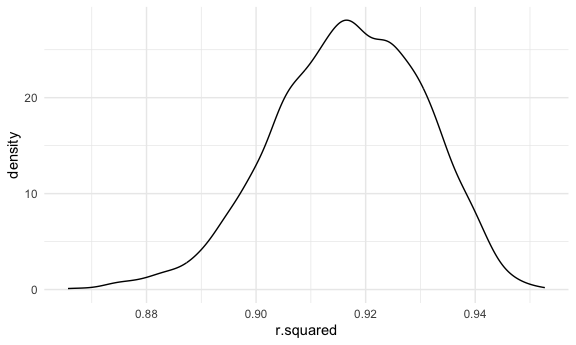
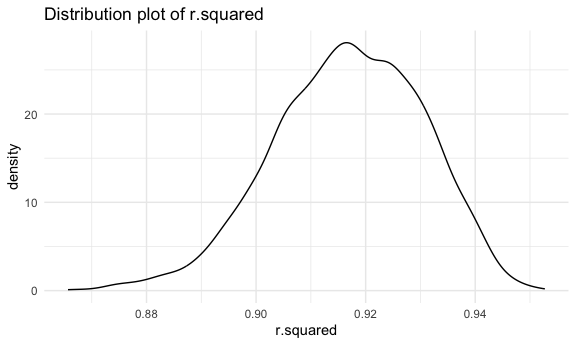
add problem 2 interpretation

diff --git a/p8105_hw6_lz2949.md b/p8105_hw6_lz2949.md
@@ -177,6 +177,7 @@ model_results |>
 ## Problem 2
 
 ``` r
+# data import 
 weather_df = 
   rnoaa::meteo_pull_monitors(
     c("USW00094728"),
@@ -197,6 +198,7 @@ weather_df =
     ## file min/max dates: 1869-01-01 / 2023-09-30
 
 ``` r
+# fit the regression model 
 tmax_fit = weather_df |>
   lm(tmax ~ tmin + prcp, data = _)
 ```
@@ -239,7 +241,7 @@ log_product_value = mutate(log_beta_values, group = rep(1:(n() / 2), each = 2)) 
     ## ℹ Run `dplyr::last_dplyr_warnings()` to see the 3360 remaining warnings.
 
 ``` r
-# MANY NaN NOT SURE!
+# MANY NaN
 ```
 
 ``` r
@@ -255,6 +257,7 @@ r_squared_values |>
     ## 1    0.889    0.941
 
 ``` r
+# confidence interval log(B*B)
 log_product_value |>
   summarize(ci_lower = quantile(log_product, 0.025, na.rm = TRUE), 
             ci_upper = quantile(log_product, 0.975, na.rm = TRUE))
@@ -269,14 +272,17 @@ log_product_value |>
 # plot the distribution of estimates
 estimated_data = cbind(r_squared_values, log_product_value) 
 
-ggplot(estimated_data, aes(x = r.squared)) +geom_density()
+ggplot(estimated_data, aes(x = r.squared)) +
+  geom_density() + 
+  labs(title = "Distribution plot of r.squared")
 ```
 
 <img src="p8105_hw6_lz2949_files/figure-gfm/unnamed-chunk-6-1.png" width="90%" />
-interpretation:
+interpretation: In the log product calculation,
 
 ``` r
-ggplot(estimated_data, aes(x = log_product)) +geom_density()
+ggplot(estimated_data, aes(x = log_product)) +geom_density() +
+  labs(title = "Distribution plot of log product")
 ```
 
     ## Warning: Removed 3361 rows containing non-finite values (`stat_density()`).
@@ -287,7 +293,16 @@ ggplot(estimated_data, aes(x = log_product)) +geom_density()
 # report how many NaN in the dataset
 ```
 
-interpretation:
+interpretation: Lots of Beta2 are negative values, leading to
+log(negative numbers) which does not exist in real number space. Among
+5000 log products, 3361 of them are NaN. Which counts for 67.22 percent
+of 5000 data points. The distribution plot of r.squared is almost
+normally distributed between 0.86 to 0.96, with the center around 0.92.
+The distribution plot of log products, however, is clearly not normally
+distributed, it is left-skewed and has a heavy tail extending to low
+values, values around -6 has the highest density. Features like that may
+be related to the frequency with with large outliers are included in the
+bootstrap sample.
 
 ## Problem 3
 
